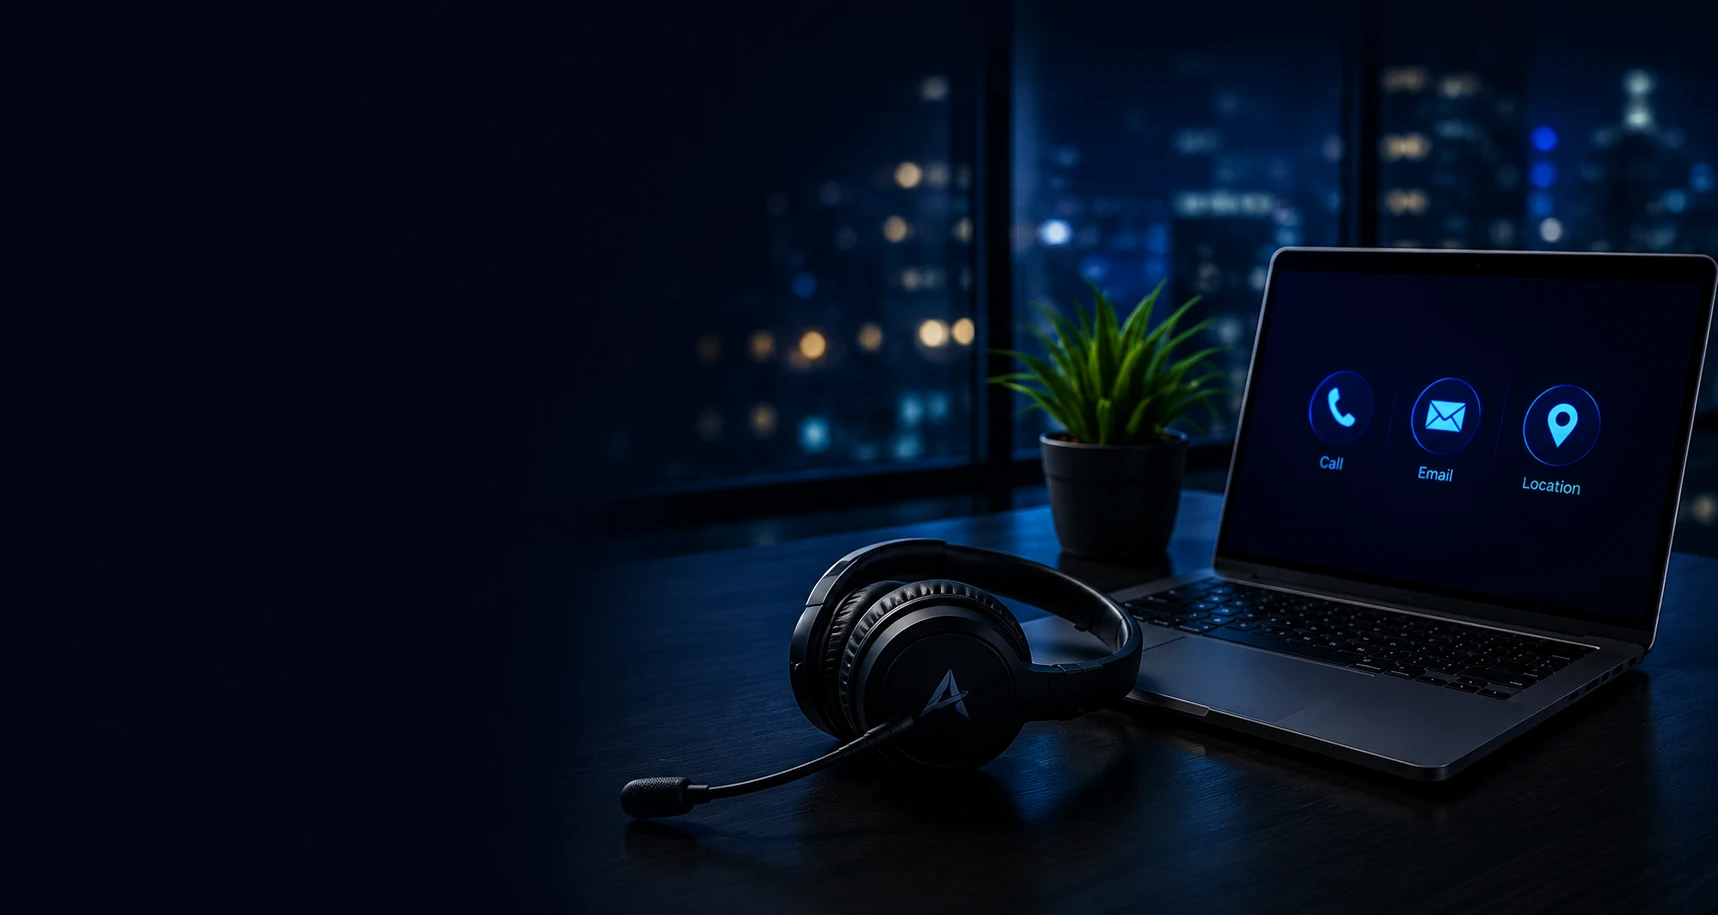
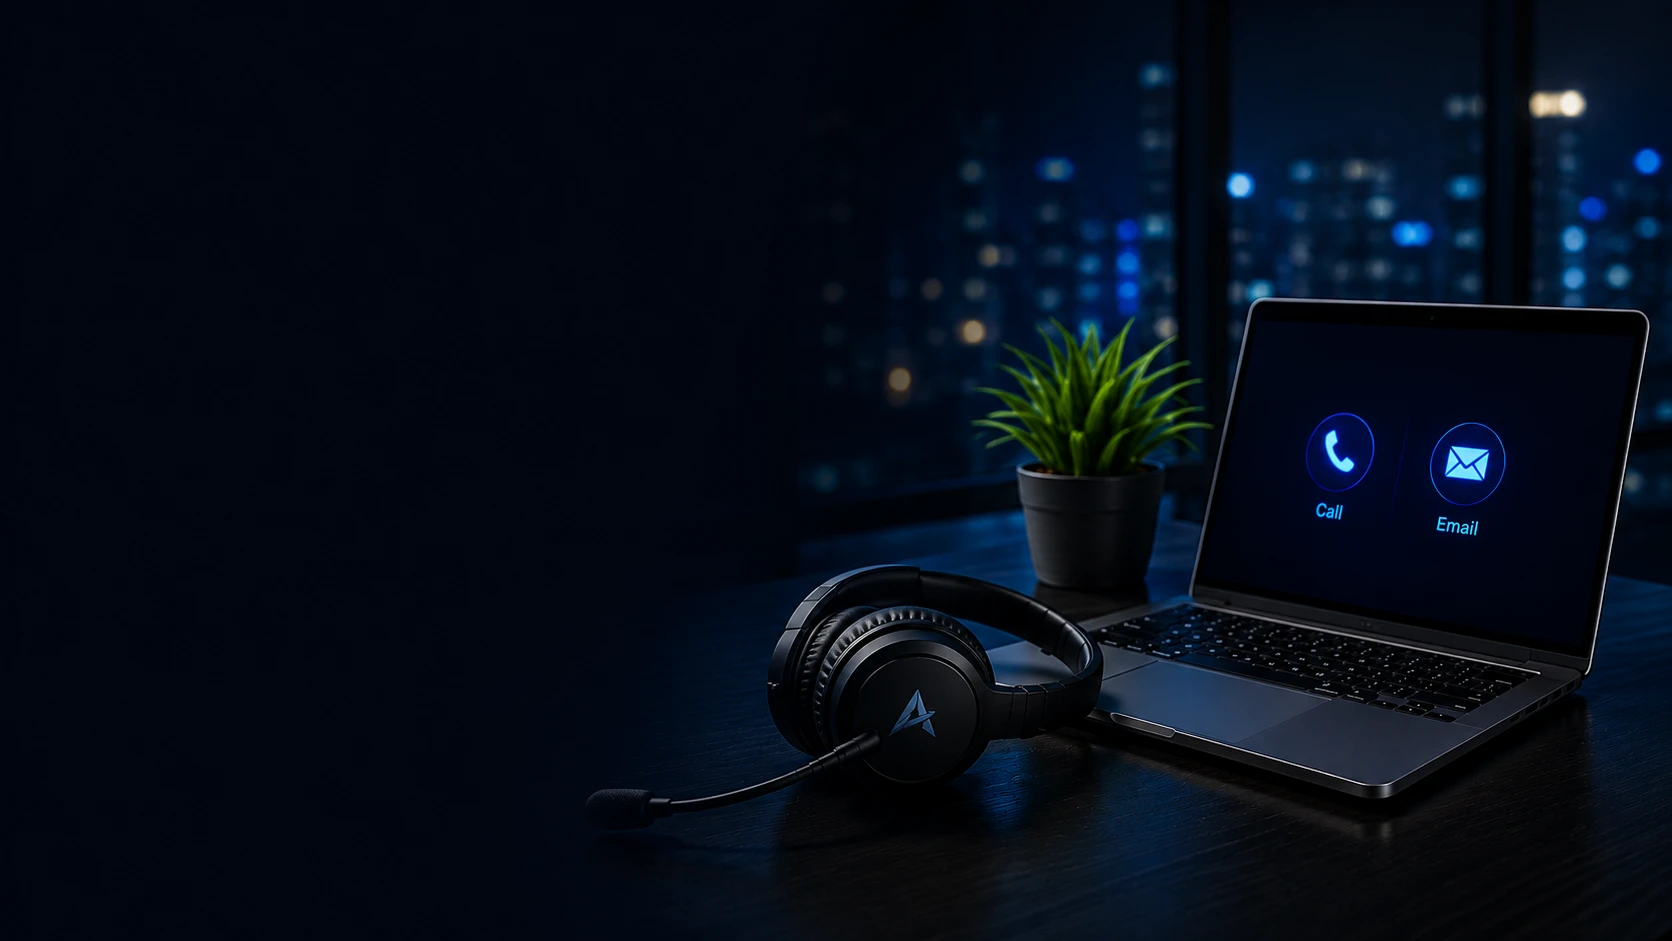
Contact page: update hero image to latest approved version
Swaps in the latest approved hero photo (confirmed text-free via pixel
analysis) and corrects the alt text to match its icons. Existing
object-position still frames the subject well for this image's aspect
ratio -- full width visible at desktop/tablet, right-biased crop on
narrow phones where horizontal cropping is unavoidable.

diff --git a/assets/js/app.js b/assets/js/app.js
@@ -2522,7 +2522,7 @@ function contactPage() {
   pageHero("Contact",
     "Tell us what is breaking.",
     "Thirty-minute call, no pitch deck. We will tell you what we would do first and roughly what it costs — even if that is nothing.",
-    heroMedia(300, slot("/assets/images/axisforce-contact-hero.webp", "Headset and laptop on a desk with a plant, showing call, email, and location icons", "", "", "", "contact-hero-img"))) +
+    heroMedia(300, slot("/assets/images/axisforce-contact-hero.webp", "Headset and laptop on a desk with a plant, showing call and email icons", "", "", "", "contact-hero-img"))) +
   '<section style="background: #f2f5fa; color: #131a28; padding: 56px 32px 72px;">' +
     '<div class="contact-layout" style="max-width: 1280px; margin: 0 auto;">' +
       '<div class="contact-left">' +
